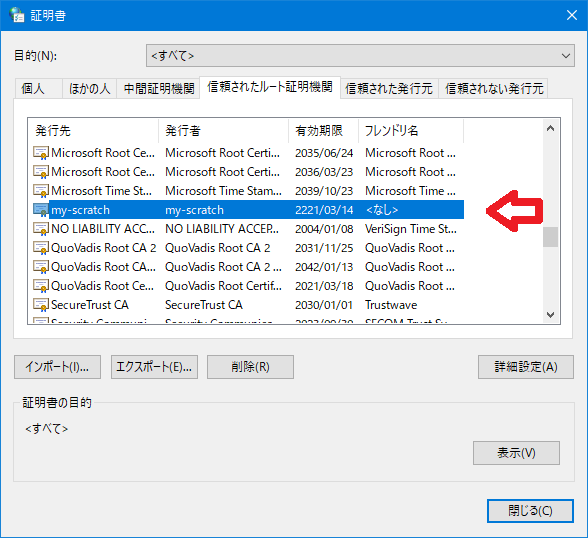
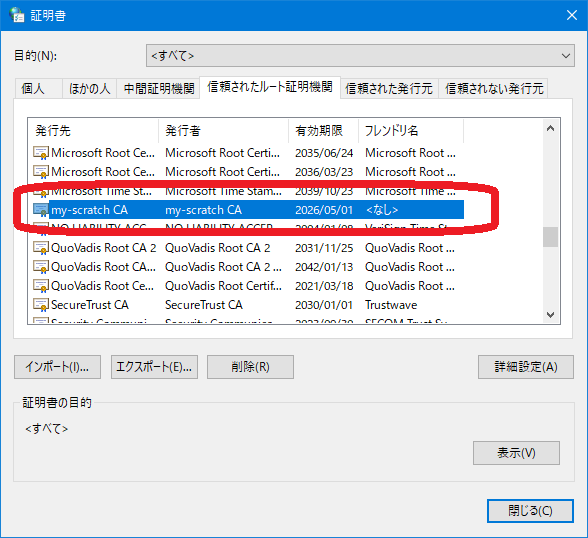
update

Changed region(s): [[0.0, 0.3271, 0.949, 0.4461]]

diff --git a/my-scratch/my-sc3_4.md b/my-scratch/my-sc3_4.md
@@ -4,15 +4,9 @@
 
 ## 4-1 httpsで使う自己証明書を作る
 
-- opensslが使える状態で、以下のコマンドを実行します。<br>
-「`set`」でしている値は、事前に変更してください。
+- `make-set.bat`内に記述されている「`set`」の値は、ご自身の環境の合わせて事前に変更してください。特に、「`IP`」にはscratch-guiを動かすPCのIPアドレスを記述してください。
 
-    ```
-    cd /d c:\scratch-gui\ssl
-    make-cer.bat
-    ```
-
-    【make-cer.bat】
+    【make-set.bat】
 
     ```
     set C=JP
@@ -21,48 +15,56 @@
     set O=hiroyuki
     set OU=develop
     set CN=my-scratch
-    set DNS1=localhost
-    set DNS2=*.%CN%
-    openssl genrsa -out server.key 2048
-    openssl req -batch -new -key server.key -out server.csr -subj "/C=%C%/ST=%ST%/L=%L%/O=%O%/OU=%OU%/CN=%CN%"
-    echo subjectAltName = DNS:%DNS1%, DNS:%DNS2%> server.san
-    openssl x509 -in server.csr -out server.cer -req -signkey server.key -days 73000 -sha256 -extfile server.san
-    openssl x509 -text -in server.cer -noout > server.cer.txt
+
+    set IP=192.168.116.65
+
+    rem set DES3=-des3
+    set DES3=
     ```
 
-## 4-2 scratch-guiを自己証明書付きで起動できるようにする
+- opensslが使える状態で、以下のコマンドを実行します。<br>
+`make-ca.bat`でプライベート認証局、中間認証局を作ります。<br>
+`make-cer.bat`でサーバー証明書を作ります。
+
+    ```
+    cd /d c:\scratch-gui\ssl
+    make-ca.bat
+    make-cer.bat
+    ```
+
+## 4-2 scratch-guiを証明書付きで起動する
 
 - `webpack.config.js.cert.txt` に記述されているマージ箇所を `webpack.config.js` に組み込み保存します。
 
-## 4-3 chromeで Scratch を開く
+- 起動用バッチで、scratch-guiを起動します。
 
-起動用バッチを起動し、chromeで `https://localhost` を開きます。
+## 4-3 クライアント（ブラウザ）に作ったプライベート認証局をシステムに取り込む
 
-- 別PCでscratch-guiを起動した場合は、<br>
-`https://マシン名` または `https://IPアドレス` を開きます。
+- コントロールパネルの「インターネットオプション」を開き、「証明書」をクリックし、「インポート」をクリックします。
 
-このとき、証明書の警告がでたら、[詳細設定]ボタンをクリックし、[アクセスする]のリンクをクリックします。
+    ![](images/cli-1.png)　![](images/cli-2.png)
 
-## 4-4 クライアント（ブラウザ）に組み込む証明書を作る
+- ウイザードの開始で「次へ」をクリックし、4-1で作ったプライベート認証局(`ca.pem`または`ca.pem.cer`)のフルパス名を指定し「次へ」をクリックします。
 
-- 「保護されていない通信」部分をマウスで右クリックし、「証明書（無効）」ヲクリックします。
+    ![](images/cli-3.png)　![](images/cli-4.png)
 
-    ![](images/cert-1.png)
+- 「証明書をすべて次のストアに配置する」を選択し、「信頼されたルート証明機関」を指定し、「次へ」をクリックし、次の画面で「完了」をクリックします。
 
-- 「詳細」タブをクリックし、「ファイルにコピー」をクリックします。
+    ![](images/cli-5.png)　![](images/cli-6.png)
 
-    ![](images/cert-2.png)　![](images/cert-3.png)
+- 「セキュリティ警告」で「はい」をクリックし、「正しくインポートされました」が表示されたら、インポートは終わりです。
 
-- ウイザードの開始で「次へ」をクリックし、「DER encoded binary X.509」を選択して「次へ」をクリックします。
+    ![](images/cli-7.png)　![](images/cli-8.png)
 
-    ![](images/cert-4.png)　![](images/cert-5.png)
+- 証明書の一覧にインポートした証明書が表示されていることを確認して終わりです。
 
-- 出力先のフルパス名を指定して「次へ」をクリックし、次の画面で「完了」をクリックします。
+    ![](images/cli-9.png)
 
-    ![](images/cert-6.png)　![](images/cert-7.png)
+## 4-4 chromeで Scratch を開く
 
-- 「正しくエクスポートされました」が表示されたら、ブラウザを一度閉じます。
+chromeで `https://localhost` を開きます。<br>
+このとき、証明書の警告がでないことを確認します。
 
-    ![](images/cert-8.png)
+![](images/cert-9.png)
 
-※ （その5）に続く
+※ 参考）その5：chromebookでのプライベート認証局の取り込み

diff --git a/my-scratch/my-sc3_5.md b/my-scratch/my-sc3_5.md
@@ -1,33 +1,38 @@
 # My Scratch 3.0 を作る（その5）
 
-※ windows下の操作を前提としています
+※ chromebokでの操作を前提としています
 
-## 5-1 クライアント（ブラウザ）に作った証明書をシステムに取り込む
+## chromeに作ったプライベート認証局をシステムに取り込む
 
-- コントロールパネルの「インターネットオプション」を開き、「証明書」をクリックし、「インポート」をクリックします。
+- 「設定」から「プライバシーとセキュリティ」をクリックし、「セキュリティ」をクリックします。
 
-    ![](images/cli-1.png)　![](images/cli-2.png)
+    ![](images/chrome-1.png)
+    
+- 「証明書の管理」をクリックします。
 
-- ウイザードの開始で「次へ」をクリックし、4-4で出力した証明書のフルパス名を指定し「次へ」をクリックします。
+    ![](images/chrome-2.png)
 
-    ![](images/cli-3.png)　![](images/cli-4.png)
+- 「認証局」をクリックし、「インポート」をクリックします。
 
-- 「証明書をすべて次のストアに配置する」を選択し、「信頼されたルート証明機関」を指定し、「次へ」をクリックし、次の画面で「完了」をクリックします。
+    ![](images/chrome-3.png)
 
-    ![](images/cli-5.png)　![](images/cli-6.png)
+- 4-1で作ったプライベート認証局(`ca.pem`または`ca.pem.cer`)を選択し「開く」をクリックします。
 
-- 「セキュリティ警告」で「はい」をクリックし、「正しくインポートされました」が表示されたら、インポートは終わりです。
+    ![](images/chrome-4.png)
 
-    ![](images/cli-7.png)　![](images/cli-8.png)
+- 「ウェブサイトの識別でこの証明書を信頼します」をチェックし、「OK」をクリックします。
 
-- 証明書の一覧にインポートした証明書が表示されていることを確認して終わりです。
+    ![](images/chrome-5.png)
 
-    ![](images/cli-9.png)
+- 認証局の一覧にインポートした証明書が表示されていることを確認して終わりです。
 
-## 5-2 chromeで Scratch を開く
+    ![](images/chrome-6.png)
+
+## 4-4 chromeで Scratch を開く
 
 chromeで `https://localhost` を開きます。<br>
 このとき、証明書の警告がでないことを確認します。
 
 ![](images/cert-9.png)
 
+※ 参考）その5：chromebookでのプライベート認証局の取り込み
